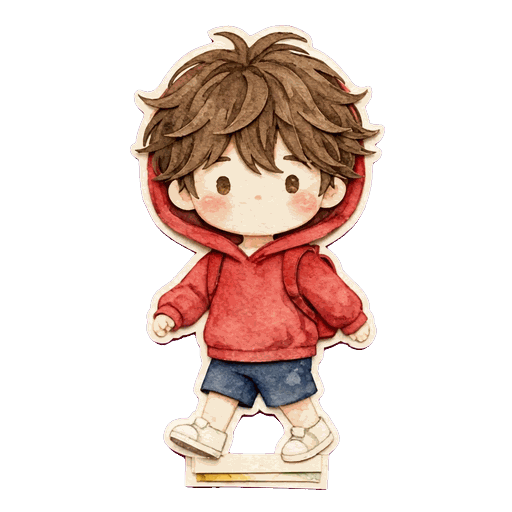
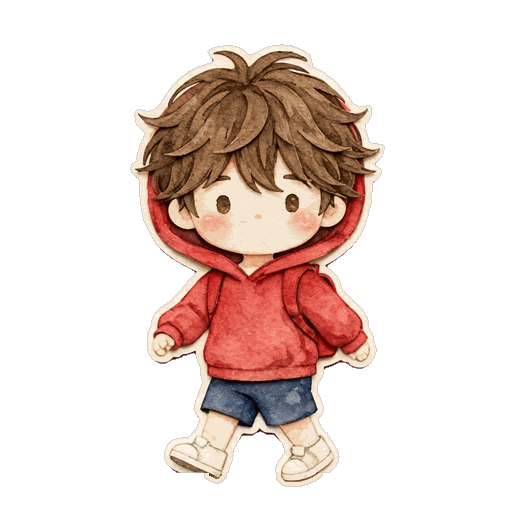
Bỏ ván dưới chân Han, cỏ dưới Kai; cần điều khiển nổi; điện thoại chạy ngang
- 9 khung Han: bỏ tấm đế giấy, giữ hai bàn chân; Kai: bỏ đám cỏ, thân chạm bóng
- Cần điều khiển hiện dưới ngón tay ở nửa trái, đế trượt theo ngón tay, vùng chết nhỏ,
  hướng nhìn có độ trễ (đi chéo không nhấp nháy), theo đúng ngón tay đã chạm
- Điện thoại cầm dọc: màn nhắc xoay ngang; manifest landscape
- Điện thoại ngang: thanh trên gọn, lời Kai xuống giữa đáy không che nhân vật, hộp thoại cuộn được
- Đơn đặt hình mới: biểu tượng app, Kai cầm điện thoại xoay ngang, cần điều khiển giấy, màn chờ

Claude-Session: https://claude.ai/code/session_01AHzGepJt93aQaJT6t7Vsc8

Changed region(s): [[0.25, 0.0312, 0.75, 0.9688]]

diff --git a/game/js/engine.js b/game/js/engine.js
@@ -259,7 +259,7 @@ var G = window.G || (window.G = {});
 
   function update(dt) {
     var vx = 0, vy = 0;
-    if (joy.on && (Math.abs(joy.dx) > 0.15 || Math.abs(joy.dy) > 0.15)) { vx = joy.dx; vy = joy.dy; target = null; pending = null; path = []; }
+    if (joy.on && (joy.dx || joy.dy)) { vx = joy.dx; vy = joy.dy; target = null; pending = null; path = []; }
     else if (keys.l || keys.r || keys.u || keys.d) { vx = (keys.r ? 1 : 0) - (keys.l ? 1 : 0); vy = (keys.d ? 1 : 0) - (keys.u ? 1 : 0); target = null; pending = null; path = []; }
     else if (target) {
       var tx = target.x - P.x, ty = target.y - P.y, dist = Math.sqrt(tx * tx + ty * ty);
@@ -291,7 +291,10 @@ var G = window.G || (window.G = {});
         }
       }
       if (!moved) P.moving = false;
-      if (Math.abs(vx) > Math.abs(vy)) P.dir = vx < 0 ? 'left' : 'right'; else P.dir = vy < 0 ? 'up' : 'down';
+      // hướng nhìn có độ trễ: đi chéo gần 45° thì giữ hướng cũ, không nhấp nháy giữa hai hình
+      var ax = Math.abs(vx), ay = Math.abs(vy), horiz = P.dir === 'left' || P.dir === 'right';
+      if (horiz ? ay > ax * 1.3 : ax > ay * 1.3) horiz = !horiz;
+      if (horiz) P.dir = vx < 0 ? 'left' : 'right'; else P.dir = vy < 0 ? 'up' : 'down';
       P.t += dt;
     }
     // Kai đi theo dấu chân người chơi (cách ~70 px trên đường đi), nên không xuyên qua cây, nhà như đi thẳng
@@ -1118,7 +1121,7 @@ var G = window.G || (window.G = {});
     var side = dir === 'left' || dir === 'right';
     var name = dir === 'up' && G.asset('kai_up.png').ok ? 'kai_up.png' : side && G.asset('kai_left.png').ok ? 'kai_left.png' : 'kai_follow.png';
     var flip = name === 'kai_left.png' ? dir === 'right' : dir === 'left';
-    G.hopDraw(ctx, function (c, X, Y, S) { G.drawAsset(c, name, X, Y, S, S, flip); }, K.x, K.y - 6, 76, (K.t || 0) * 14, K.moving);   // robot: nhún nhảy
+    G.hopDraw(ctx, function (c, X, Y, S) { G.drawAsset(c, name, X, Y, S, S, flip); }, K.x, K.y + 3, 82, (K.t || 0) * 14, K.moving);   // robot: nhún nhảy (hình đã bỏ đám cỏ: thân chạm bóng)
   }
   function drawTeacher(id) {
     var n = G.NPCS[id];
@@ -1176,26 +1179,59 @@ var G = window.G || (window.G = {});
   }
 
   function bindInput() {
-    cv.addEventListener('click', function (e) { tapAt(e.clientX, e.clientY); });
-    var base = document.getElementById('joy'), knob = document.getElementById('joy-knob');
-    function jm(e) {
-      var t = e.touches ? e.touches[0] : e;
-      var r = base.getBoundingClientRect();
-      var dx = t.clientX - (r.left + r.width / 2), dy = t.clientY - (r.top + r.height / 2);
-      var m = Math.sqrt(dx * dx + dy * dy), max = r.width / 2;
-      if (m > max) { dx = dx / m * max; dy = dy / m * max; }
-      joy.dx = dx / max; joy.dy = dy / max;
+    /* Cần điều khiển nổi: chạm và kéo ở nửa trái màn hình (phần dưới) thì cần hiện ngay dưới ngón tay; chạm nhẹ (không kéo)
+       vẫn là bấm đi tới chỗ đó như cũ. Kéo quá vành thì đế trượt theo ngón tay (không phải nhấc tay đặt lại).
+       Vùng chết nhỏ ở giữa; kéo quá 60% vành là chạy hết tốc. Theo đúng ngón tay đã chạm (chạm thêm nút khác không bị nhảy). */
+    var play = document.getElementById('play'), base = document.getElementById('joy'), knob = document.getElementById('joy-knob');
+    var JR = 60, DZ = 0.16, jid = null, jx = 0, jy = 0, jsx = 0, jsy = 0, jlive = false, eatClick = 0;
+    function rel(t) { var r = play.getBoundingClientRect(); return { x: t.clientX - r.left, y: t.clientY - r.top }; }
+    function inZone(q) { var w = play.clientWidth, h = play.clientHeight; return q.x < w * 0.45 && q.y > h * 0.3; }
+    function place() { base.style.left = (jx - JR) + 'px'; base.style.top = (jy - JR) + 'px'; base.style.bottom = 'auto'; }
+    function aim(q) {
+      var dx = q.x - jx, dy = q.y - jy, m = Math.sqrt(dx * dx + dy * dy);
+      if (m > JR) { var k = (m - JR) / m; jx += dx * k; jy += dy * k; place(); dx = q.x - jx; dy = q.y - jy; m = JR; }
       knob.style.transform = 'translate(' + dx + 'px,' + dy + 'px)';
-      e.preventDefault();
+      var n = m / JR;
+      if (n < DZ) { joy.dx = 0; joy.dy = 0; return; }
+      var sp = 0.4 + 0.6 * Math.min(1, (n - DZ) / (0.6 - DZ));   // nhích nhẹ là đi chậm, kéo quá 60% là hết tốc
+      joy.dx = dx / m * sp; joy.dy = dy / m * sp;
     }
-    function je() { joy.on = false; joy.dx = 0; joy.dy = 0; knob.style.transform = ''; }
-    base.addEventListener('touchstart', function (e) { joy.on = true; jm(e); }, { passive: false });
-    base.addEventListener('touchmove', jm, { passive: false });
-    base.addEventListener('touchend', je);
-    base.addEventListener('touchcancel', je);
+    function goLive(cx, cy) { JR = (base.offsetWidth / 2) || 60; jlive = true; joy.on = true; jx = cx; jy = cy; place(); base.className = 'joy live'; }
+    function je() {
+      if (jlive) eatClick = Date.now() + 400;
+      jid = null; jlive = false; joy.on = false; joy.dx = 0; joy.dy = 0;
+      knob.style.transform = ''; base.className = 'joy'; base.style.left = ''; base.style.top = ''; base.style.bottom = '';
+    }
+    function find(e) { for (var i = 0; i < e.changedTouches.length; i++) if (e.changedTouches[i].identifier === jid) return e.changedTouches[i]; return null; }
+    function tmove(e) {
+      if (jid === null) return;
+      var t = find(e); if (!t) return;
+      var q = rel(t);
+      if (!jlive) { if (Math.abs(q.x - jsx) + Math.abs(q.y - jsy) < 10) return; goLive(jsx, jsy); }
+      aim(q); e.preventDefault();
+    }
+    function tend(e) { if (jid !== null && find(e)) je(); }
+    cv.addEventListener('touchstart', function (e) {
+      if (jid !== null) return;
+      var t = e.changedTouches[0], q = rel(t);
+      if (!inZone(q)) return;
+      jid = t.identifier; jsx = q.x; jsy = q.y; jlive = false;
+    }, { passive: true });
+    base.addEventListener('touchstart', function (e) {
+      if (jid !== null) return;
+      var t = e.changedTouches[0], r = base.getBoundingClientRect(), pr = play.getBoundingClientRect();
+      jid = t.identifier; goLive(r.left - pr.left + r.width / 2, r.top - pr.top + r.height / 2); aim(rel(t)); e.preventDefault();
+    }, { passive: false });
+    [cv, base].forEach(function (el) {
+      el.addEventListener('touchmove', tmove, { passive: false });
+      el.addEventListener('touchend', tend);
+      el.addEventListener('touchcancel', tend);
+    });
+    cv.addEventListener('click', function (e) { if (Date.now() < eatClick) return; tapAt(e.clientX, e.clientY); });
     base.addEventListener('mousedown', function (e) {
-      joy.on = true; jm(e);
-      function mv(ev) { jm(ev); }
+      var r = base.getBoundingClientRect(), pr = play.getBoundingClientRect();
+      goLive(r.left - pr.left + r.width / 2, r.top - pr.top + r.height / 2); aim(rel(e)); e.preventDefault();
+      function mv(ev) { aim(rel(ev)); }
       function up() { je(); window.removeEventListener('mousemove', mv); window.removeEventListener('mouseup', up); }
       window.addEventListener('mousemove', mv); window.addEventListener('mouseup', up);
     });
@@ -1217,5 +1253,5 @@ var G = window.G || (window.G = {});
   G.debugPath = function (x0, y0, x1, y1) { var p = findPath(x0, y0, x1, y1); return p ? p.length : -1; };
   G.debugKai = function () { return { x: K.x, y: K.y }; };
   G.debugTown = function () { return town.map(function (t) { return { x: Math.round(t.x), y: Math.round(t.y), set: t.set, wait: t.wait, moving: !!t.moving }; }); };
-  G.debugState = function () { return { target: !!target, moving: P.moving, x: P.x, y: P.y, cx: cam.x, cy: cam.y, zoom: zoom, scene: sceneId, near: near ? near.label : null }; };
+  G.debugState = function () { return { target: !!target, moving: P.moving, x: P.x, y: P.y, dir: P.dir, cx: cam.x, cy: cam.y, zoom: zoom, scene: sceneId, near: near ? near.label : null }; };
 })();

diff --git a/game/css/game.css b/game/css/game.css
@@ -64,9 +64,12 @@ button { font: inherit; color: inherit; cursor: pointer; }
 .hud b { flex: 1; font-size: 17px; text-shadow: 0 1px 3px rgba(0,0,0,.4); }
 .hud-btn { width: 44px; height: 44px; border-radius: 12px; border: 0; background: rgba(255,255,255,.92); color: var(--navy); font-size: 20px; }
 .hud-xp { background: rgba(255,255,255,.92); color: var(--navy); font-weight: 800; padding: 8px 12px; border-radius: 12px; font-size: 14px; }
-.joy { position: absolute; left: max(20px, env(safe-area-inset-left)); bottom: max(24px, env(safe-area-inset-bottom)); width: 120px; height: 120px; border-radius: 50%; background: rgba(255,255,255,.22); border: 2px solid rgba(255,255,255,.5); touch-action: none; }
-.joy-knob { position: absolute; left: 50%; top: 50%; width: 52px; height: 52px; margin: -26px 0 0 -26px; border-radius: 50%; background: rgba(255,255,255,.9); box-shadow: 0 3px 10px rgba(0,0,0,.25); pointer-events: none; }
-@media (hover: hover) and (pointer: fine) { .joy { opacity: .6; } }
+.joy { position: absolute; left: max(22px, env(safe-area-inset-left)); bottom: max(22px, env(safe-area-inset-bottom)); width: 120px; height: 120px; border-radius: 50%; background: radial-gradient(circle, rgba(255,248,232,.16) 0 55%, rgba(255,248,232,.32) 56% 100%); border: 3px solid rgba(255,248,232,.7); box-shadow: 0 4px 14px rgba(60,40,20,.18), inset 0 0 0 1px rgba(90,60,30,.12); touch-action: none; opacity: .55; transition: opacity .2s; z-index: 4; }
+.joy::before { content: ''; position: absolute; inset: 10px; border-radius: 50%; border: 2px dashed rgba(255,248,232,.45); }
+.joy.live { opacity: 1; transition: none; }
+.joy-knob { position: absolute; left: 50%; top: 50%; width: 54px; height: 54px; margin: -27px 0 0 -27px; border-radius: 50%; background: #fff8ea; border: 3px solid #e8d7b8; box-shadow: 0 4px 10px rgba(60,40,20,.3); pointer-events: none; }
+.joy.live .joy-knob { background: #fffdf6; }
+@media (hover: hover) and (pointer: fine) { .joy { opacity: .5; } }
 .act { position: absolute; right: max(16px, env(safe-area-inset-right)); bottom: max(40px, env(safe-area-inset-bottom)); min-height: 56px; padding: 12px 20px; border-radius: 16px; border: 0; background: var(--coral); color: #fff; font-weight: 800; font-size: 17px; box-shadow: 0 8px 20px rgba(0,0,0,.25); transform: translateY(30px); opacity: 0; pointer-events: none; transition: .18s; max-width: 60vw; }
 .act.show { transform: none; opacity: 1; pointer-events: auto; }
 .kai { position: absolute; left: 50%; top: calc(max(10px, env(safe-area-inset-top)) + 58px); transform: translate(-50%, -10px); width: min(520px, calc(100% - 24px)); display: flex; gap: 10px; align-items: center; background: var(--paper); border-radius: 16px; padding: 10px 14px; box-shadow: 0 8px 24px rgba(0,0,0,.2); opacity: 0; pointer-events: none; transition: .2s; }
@@ -640,3 +643,36 @@ body { background: #f4e9dc url(../assets/paper_tile.webp) repeat; background-siz
 .fb-card { text-align: center; }
 .fb-card h2 { margin: 4px 0; color: #7a4526; }
 @media (prefers-reduced-motion: reduce) { .shine::after { animation: none; display: none; } }
+
+/* ===== Điện thoại nằm ngang (cao dưới 500 px): gọn thanh trên, lời Kai xuống giữa đáy để không che nhân vật ===== */
+.rotate { display: none; }
+@media (orientation: portrait) {
+  html.phone .rotate { display: flex; position: fixed; inset: 0; z-index: 9999; flex-direction: column; align-items: center; justify-content: center; gap: 12px; padding: 32px 28px; text-align: center;
+    background: #f4e9dc url(../assets/paper_tile.webp) repeat; background-size: 400px 320px; color: #4a2f1d; }
+  html.phone body { overflow: hidden; }
+}
+.rotate b { font-size: 24px; }
+.rotate p { margin: 0; font-size: 16px; line-height: 1.45; color: #7d5a40; }
+.rotate small { font-size: 13.5px; line-height: 1.45; color: #a3876c; max-width: 320px; }
+.rot-ico { width: 120px; height: 120px; border-radius: 50%; display: grid; place-items: center; background: #fbf5ea; box-shadow: 0 0 0 1px #e3d3b8, 0 10px 24px rgba(90,60,30,.16); }
+.rot-phone { font-size: 64px; display: inline-block; animation: rotp 2.4s ease-in-out infinite; }
+@keyframes rotp { 0%, 20% { transform: rotate(0); } 45%, 75% { transform: rotate(-90deg); } 100% { transform: rotate(0); } }
+@media (max-height: 500px) {
+  .hud { padding-top: max(6px, env(safe-area-inset-top)); padding-bottom: 6px; gap: 8px; }
+  .hud-btn { width: 38px; height: 38px; font-size: 18px; border-radius: 10px; }
+  .hud b { font-size: 15px; white-space: nowrap; overflow: hidden; text-overflow: ellipsis; }
+  .hr-ring { width: 30px; height: 30px; } .hr-ring b { width: 23px; height: 23px; font-size: 10px; }
+  .quest { top: calc(max(6px, env(safe-area-inset-top)) + 44px); left: max(12px, env(safe-area-inset-left)); transform: none; width: min(400px, 54vw); padding: 4px 6px 4px 8px; }
+  .quest b { font-size: 12.5px; } .q-pin { font-size: 17px; } .q-go { padding: 4px 8px; font-size: 12px; }
+  .radar { top: calc(max(6px, env(safe-area-inset-top)) + 46px); gap: 4px; }
+  .radar canvas { width: 74px; height: 74px; }
+  .temp { min-width: 74px; padding: 2px 6px; } .temp b { font-size: 13px; } .temp .tp-en { font-size: 10.5px; } .temp small { display: none; }
+  .kai { top: auto !important; bottom: max(10px, env(safe-area-inset-bottom)); left: 50% !important; width: min(440px, 44vw) !important; padding: 6px 10px; gap: 8px; transform: translate(-50%, 10px) !important; }
+  .kai.show { transform: translate(-50%, 0) !important; }
+  .kai-face { font-size: 20px; } .kai-text { font-size: 12.5px; line-height: 1.35; }
+  .act { bottom: max(14px, env(safe-area-inset-bottom)); min-height: 46px; padding: 9px 14px; font-size: 15px; max-width: 25vw; }
+  .joy { left: max(16px, env(safe-area-inset-left)); bottom: max(14px, env(safe-area-inset-bottom)); width: 108px; height: 108px; }
+  .modal { padding: 10px; }
+  .modal .choose { max-height: calc(100vh - 20px); overflow-y: auto; -webkit-overflow-scrolling: touch; padding: 14px 18px; }
+  .fb-big { width: 112px; height: 112px; }
+}

diff --git a/game/data/asset_rev.js b/game/data/asset_rev.js
@@ -95,9 +95,9 @@ G.ASSET_REV = {"badge_1.webp":"4cd4eec0",
 "interior_en_pharmacy.png":"24f23f91",
 "interior_en_post.png":"2dc37539",
 "interior_en_super.png":"f8514885",
-"kai_follow.png":"1bf08099",
-"kai_left.png":"ccb3e2a1",
-"kai_up.png":"153f797f",
+"kai_follow.png":"30e97790",
+"kai_left.png":"76ee4b2c",
+"kai_up.png":"dee06d83",
 "lobby_hero.webp":"158889f0",
 "lobby_title.png":"aaf7d12c",
 "logo_icon.png":"bf945f77",
@@ -244,17 +244,17 @@ G.ASSET_REV = {"badge_1.webp":"4cd4eec0",
 "person_walter_left_w2.png":"c4ea06f9",
 "person_walter_up.png":"9e046325",
 "plane.png":"40ea1fde",
-"player_han_down.png":"5ba7e84f",
-"player_han_down_w1.png":"9207d600",
-"player_han_down_w2.png":"7c40b17a",
+"player_han_down.png":"47aaf98b",
+"player_han_down_w1.png":"c08e85ab",
+"player_han_down_w2.png":"b1c92c8c",
 "player_han_happy.png":"3cd6c9c4",
-"player_han_left.png":"6cd22248",
-"player_han_left_w1.png":"02186068",
-"player_han_left_w2.png":"cbd2438b",
+"player_han_left.png":"dcfff515",
+"player_han_left_w1.png":"6d9ec3c7",
+"player_han_left_w2.png":"c2527738",
 "player_han_think.png":"1fe247f5",
-"player_han_up.png":"50ba9979",
-"player_han_up_w1.png":"55cf18e2",
-"player_han_up_w2.png":"42edfbb3",
+"player_han_up.png":"baee1205",
+"player_han_up_w1.png":"bf2d8d08",
+"player_han_up_w2.png":"85dc705f",
 "player_han_wow.png":"2c65038f",
 "player_minh_down.png":"c1f2ed56",
 "player_minh_happy.png":"a3056630",

diff --git a/game/data/hands.js b/game/data/hands.js
@@ -20,9 +20,9 @@ G.HANDS = {
     'body_uniform_down.png': [70.0, 73.1, '#fbe2c7', 6.8],
     'body_uniform_left.png': [51.8, 74.3, '#fbe2c6', 6.8],
     'body_uniform_up.png': [70.0, 73.0, '#fbe2c7', 6.8],
-    'kai_follow.png': [71.5, 77, '#3f9fa0', 5.3],
-    'kai_left.png': [28, 72, '#3f9fa0', 7.6],
-    'kai_up.png': [68.5, 77, '#3f9fa0', 6.4],
+    'kai_follow.png': [71.5, 89.9, '#3f9fa0', 18.2],
+    'kai_left.png': [28, 83.3, '#3f9fa0', 18.9],
+    'kai_up.png': [68.5, 88.3, '#3f9fa0', 17.7],
     'npc_ben.png': [66, 69, '#f6dcc8', 4.9],
     'npc_carlos.png': [63, 67, '#f6dcc8', 4.7],
     'npc_dan.png': [66, 69, '#f6dcc8', 4.9],
@@ -52,9 +52,9 @@ G.HANDS = {
     'person_walter_down.png': [67.8, 65.1, '#67843b', 4.9],
     'person_walter_left.png': [38.1, 64.3, '#46631d', 4.7],
     'person_walter_up.png': [66.8, 64.9, '#8fa966', 4.7],
-    'player_han_down.png': [63.7, 69.7, '#f6dcc8', 4.7],
-    'player_han_left.png': [50.6, 71, '#f6dcc8', 4.7],
-    'player_han_up.png': [64.1, 70.3, '#f6dcc8', 4.7],
+    'player_han_down.png': [63.7, 73.4, '#f6dcc8', 8.4],
+    'player_han_left.png': [50.6, 74.7, '#f6dcc8', 8.4],
+    'player_han_up.png': [64.1, 74.0, '#f6dcc8', 8.4],
     'player_minh_down.png': [70.5, 65.7, '#685b4e', 4.9],
     'player_minh_left.png': [65.9, 65.3, '#d5645a', 4.7],
     'player_minh_up.png': [58.8, 74.5, '#f7e8cf', 4.7]

diff --git a/game/index.html b/game/index.html
@@ -10,8 +10,17 @@
 <link rel="manifest" href="manifest.webmanifest">
 <link rel="apple-touch-icon" href="../icons/icon-180.png">
 <link rel="stylesheet" href="css/game.css">
+<script>/* điện thoại (cạnh ngắn < 600 px, màn cảm ứng): app chạy ngang, cầm dọc thì hiện lời nhắc xoay ngang */
+(function () { var s = Math.min(screen.width, screen.height); if (s < 600 && (navigator.maxTouchPoints > 0 || 'ontouchstart' in window)) document.documentElement.className += ' phone'; })();</script>
 </head>
 <body>
+  <!-- Điện thoại cầm dọc: nhắc xoay ngang (iPhone không cho web app tự khoá màn hình ngang) -->
+  <div id="rotate" class="rotate" aria-live="polite">
+    <div class="rot-ico"><span class="rot-phone">📱</span></div>
+    <b>Xoay ngang điện thoại nhé</b>
+    <p>ConnectLife chơi trên màn hình ngang để thấy rộng cả thành phố.</p>
+    <small>Xoay mà màn hình không đổi? Vuốt từ góc trên bên phải xuống để mở Trung tâm điều khiển, tắt nút 🔒 Khoá xoay màn hình rồi xoay lại.</small>
+  </div>
   <!-- Ngôi nhà chung -->
   <main id="lobby"></main>
 

diff --git a/game/sw.js b/game/sw.js
@@ -1,7 +1,7 @@
 /* Chạy offline: giữ toàn bộ code game, dữ liệu và mọi hình trong assets/.
    Hình tải qua assets/<tên>?v=<mã nội dung> (data/asset_rev.js): mỗi lần cập nhật app chỉ tải hình mới hoặc hình đã thay,
    hình không đổi chép lại từ bản trong máy. Tệp giọng đọc được giữ lại khi đã nghe một lần. */
-var VERSION = 'thegioi-v85';
+var VERSION = 'thegioi-v86';
 // giọng đọc: tên tệp đặt theo nội dung câu nên không bao giờ đổi, giữ riêng một kho để cập nhật app không phải tải lại
 var AUDIO = 'connectlife-audio-v2';
 var CORE = [

diff --git a/game/ASSET_ORDERS.md b/game/ASSET_ORDERS.md
@@ -1,5 +1,22 @@
 # Danh sách đặt hình: ConnectLife
 
+## ĐƠN MỚI 20/11/2026 · kiểu giấy màu nước (đính kèm 1 hình Han và 1 hình Kai đang có trong game để giữ nét)
+
+Quy tắc mới cho MỌI hình nhân vật (kể cả các đơn bước đi đang chờ: KAI-WALK, WALK-…): **không có đế giấy, ván, cỏ hay mặt đất dưới chân**, đáy hình là đế giày.
+
+```
+Please create the following images for my 2D mobile game, ONE image per message, in this order.
+Attached: two characters from my game (a boy in a red hoodie and a small teal robot). Match their art style exactly:
+soft watercolor on cut paper, a thin cream paper border around every shape like a paper cut-out, gentle shadows.
+No text, letters or numbers anywhere. Isolated subject on a solid flat magenta #FF00FF background unless said otherwise.
+Characters must stand with NOTHING under their feet: no paper base, no stand, no grass, no ground.
+
+1. APP ICON, square, NOT magenta: the little teal robot (red headphones, navy cap) waving, standing in front of a tiny paper-craft town with a school bell tower, cream paper sky. Simple, readable when very small, no text, nothing touching the edges.
+2. The little teal robot holding a smartphone turned SIDEWAYS in both hands, showing it to the viewer, happy face, a curved arrow above the phone showing rotation. Full body, front view.
+3. A round game joystick seen from the top, paper-craft style: a big flat cream paper disc with a soft brown edge and 4 tiny arrow notches (up, down, left, right), and next to it, separately, a smaller round cream paper knob with a soft shadow. Two separate objects side by side.
+4. Wide landscape 4:3 launch screen, NOT magenta: the paper-craft town of Brightford seen from above at morning, the boy in the red hoodie and the teal robot walking together on the path in the lower middle, empty sky area at the top for the title.
+```
+
 ## ĐƠN ĐANG CHỜ (chỉ phần tiếng Anh · copy nguyên khối, đính kèm hình Ms. Emma để giữ nét vẽ)
 
 Phần tiếng Trung tạm dừng nên không có trong đơn. Làm xong anh cứ dán hình vào chat với em, em tự cắt, đặt tên và lưu vào game.
